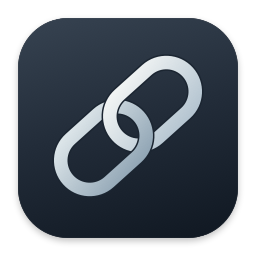
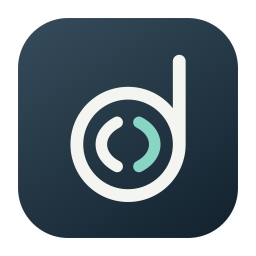
이음 0.11.16 배포 안내와 사용설명서 갱신

diff --git a/CHANGELOG.md b/CHANGELOG.md
@@ -4,6 +4,27 @@
 
 [최신 설치 파일](https://github.com/dicass/ieum/releases/latest) · [사용설명서](USER_GUIDE.md)
 
+## 0.11.16 · 팝업에서 마치는 화면 설정과 새 아이콘
+
+디스플레이 팝업에서 내장 화면 자동 끄기와 화면 배치를 바로 설정할 수 있습니다. 이음 아이콘도 dicass의 공통 형태에 맞춰 새로 만들었습니다.
+
+### 디스플레이 팝업에서 바로 설정하세요
+
+- 외장 모니터를 연결했을 때 내장 화면을 자동으로 끄는 옵션과 현재 상태를 팝업 위쪽에 표시합니다.
+- 선택한 화면의 밝기·음량을 함께 조절하고, 화면 배치를 저장·복원하거나 유지할 수 있습니다.
+- 팝업의 설정 버튼에서 상세 설정과 호출키를 열 수 있습니다. 모니터 화면으로 돌아오면 접어 둔 목록을 유지합니다.
+- 프리셋의 입력까지 바꾸려면 ‘입력까지 적용…’을 선택하고 확인합니다. 프리셋 이름을 바로 고르면 기존처럼 입력은 바뀌지 않습니다.
+
+### 새로운 이음 아이콘
+
+- dicass의 소문자 d와 반향 곡선을 바탕으로, 두 기기의 연결을 나타내는 이음 아이콘을 적용했습니다.
+- 앱 아이콘과 DMG의 아이콘을 같은 형태로 맞췄습니다. 제작사 이름은 소문자 dicass로 표시합니다.
+
+### 그대로 사용할 수 있어요
+
+- 창고와 클립보드는 간결한 화면을 유지합니다.
+- 0.11.15 사용자는 앱의 ‘업데이트 확인…’에서 이 버전을 받을 수 있습니다. 이전 버전은 DMG로 한 번 직접 교체해 주세요.
+
 ## 0.11.15 · 앱에서 새 버전 확인하고 설치하기
 
 이제 새 버전을 받으러 다시 찾아오지 않아도 됩니다. 이음 안에서 변경 내용을 확인하고 업데이트할 수 있어요.
